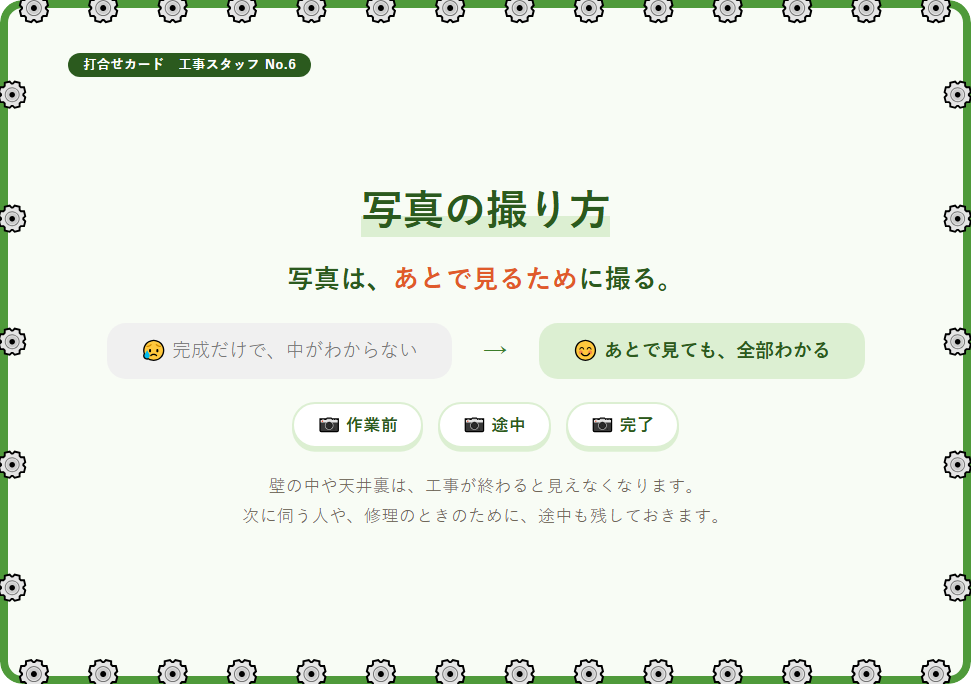
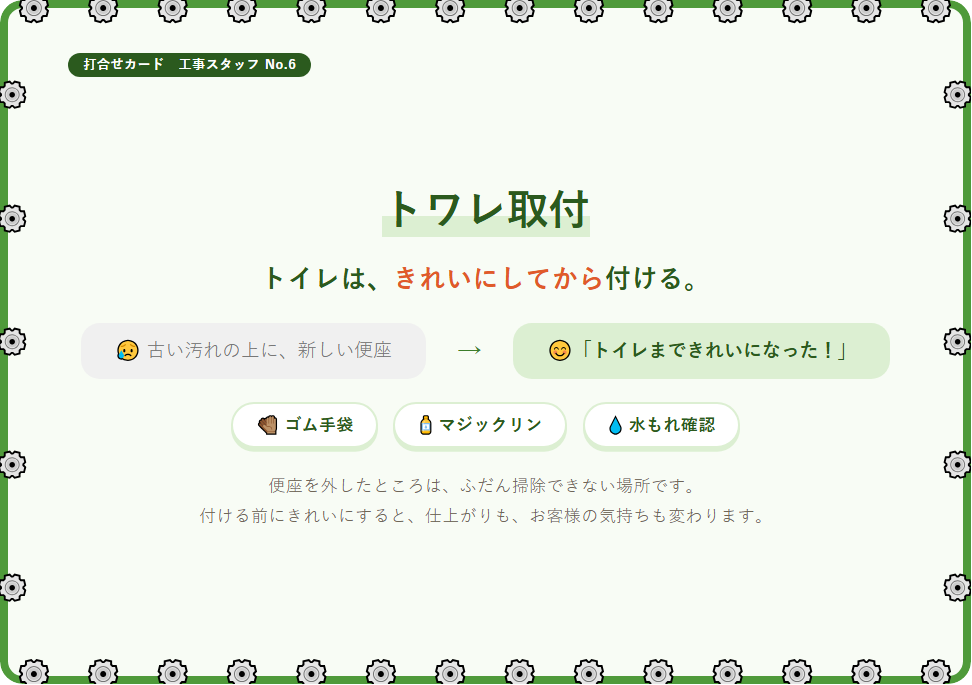
工事カードの番号を入れ替え（No.5 写真の撮り方／No.6 トワレ取付）
Claude-Session: https://claude.ai/code/session_01SZNrdcyrN7aKEt1o21LvYk

diff --git a/card-koji-5.html b/card-koji-5.html
@@ -3,10 +3,10 @@
 <head>
 <meta charset="UTF-8">
 <meta name="viewport" content="width=1010">
-<title>打合せカード5 トワレ取付｜ヤハタ電機商会</title>
+<title>打合せカード5 写真の撮り方｜ヤハタ電機商会</title>
 <meta property="og:type" content="website">
-<meta property="og:title" content="工事スタッフカード　トワレ取付">
-<meta property="og:description" content="トイレは、きれいにしてから付ける。">
+<meta property="og:title" content="工事スタッフカード　写真の撮り方">
+<meta property="og:description" content="写真は、あとで見るために撮る。">
 <meta property="og:image" content="https://yahatadennki.github.io/report/img/card-koji-5.png">
 <meta property="og:url" content="https://yahatadennki.github.io/report/card-koji-5.html">
 <meta name="twitter:card" content="summary_large_image">
@@ -100,11 +100,11 @@
 
   <div class="top"><span class="no">打合せカード　工事スタッフ No.5</span><span></span></div>
   <div class="front">
-    <h1><em>トワレ取付</em></h1>
-    <p class="msg">トイレは、<b>きれいにしてから</b>付ける。</p>
-    <div class="vs"><div class="ng">😥 古い汚れの上に、新しい便座</div><div class="ar">→</div><div class="ok">😊「トイレまできれいになった！」</div></div>
-    <div class="chips"><span>🧤 ゴム手袋</span><span>🧴 マジックリン</span><span>💧 水もれ確認</span></div>
-    <p class="one">便座を外したところは、ふだん掃除できない場所です。<br>付ける前にきれいにすると、仕上がりも、お客様の気持ちも変わります。</p>
+    <h1><em>写真の撮り方</em></h1>
+    <p class="msg">写真は、<b>あとで見るため</b>に撮る。</p>
+    <div class="vs"><div class="ng">😥 完成だけで、中がわからない</div><div class="ar">→</div><div class="ok">😊 あとで見ても、全部わかる</div></div>
+    <div class="chips"><span>📷 作業前</span><span>📷 途中</span><span>📷 完了</span></div>
+    <p class="one">壁の中や天井裏は、工事が終わると見えなくなります。<br>次に伺う人や、修理のときのために、途中も残しておきます。</p>
   </div>
 </div>
 
@@ -115,17 +115,17 @@
   <div class="col-f l"><span>⚙</span><span>⚙</span><span>⚙</span><span>⚙</span><span>⚙</span></div>
   <div class="col-f r"><span>⚙</span><span>⚙</span><span>⚙</span><span>⚙</span><span>⚙</span></div>
 
-  <div class="top"><span class="no">打合せカード　工事スタッフ No.5　トワレ取付</span><span></span></div>
+  <div class="top"><span class="no">打合せカード　工事スタッフ No.5　写真の撮り方</span><span></span></div>
   <div class="back">
     <div class="box">
-      <h2>取付の流れ</h2>
-      <div class="roles sm"><div class="role" style="--rc:#fde2cc;--rk:#7a3a0e"><span class="e">📦</span><div><div class="n">付属品の確認</div><div class="x">箱を開けて、付属品がそろっているか</div></div></div><div class="role" style="--rc:#d9ebfa;--rk:#164a7a"><span class="e">🚰</span><div><div class="n">止水栓を閉める</div><div class="x">電源を抜いて、水を抜く</div></div></div><div class="role" style="--rc:#fff1c2;--rk:#7a4d10"><span class="e">🔧</span><div><div class="n">古い便座を外す</div><div class="x">給水ホースと本体</div></div></div><div class="role" style="--rc:#dcefd2;--rk:#2b5a1e"><span class="e">🧴</span><div><div class="n">掃除</div><div class="x">マジックリン＋トイレットペーパー</div></div></div><div class="role" style="--rc:#e8dcf7;--rk:#4a2a78"><span class="e">🔩</span><div><div class="n">取付</div><div class="x">ベースプレート・本体・給水</div></div></div><div class="role" style="--rc:#d9ebfa;--rk:#164a7a"><span class="e">💧</span><div><div class="n">水もれ確認</div><div class="x">止水栓を開けて、つなぎ目を目と手で</div></div></div><div class="role" style="--rc:#fde2cc;--rk:#7a3a0e"><span class="e">✅</span><div><div class="n">試運転</div><div class="x">おしり・ビデ・便座の温かさ</div></div></div></div>
+      <h2>撮るところ</h2>
+      <div class="roles"><div class="role" style="--rc:#d9ebfa;--rk:#164a7a"><span class="e">🏠</span><div><div class="n">作業前</div><div class="x">設置場所・古い機器・まわりの様子</div></div></div><div class="role" style="--rc:#dcefd2;--rk:#2b5a1e"><span class="e">🔧</span><div><div class="n">途中</div><div class="x">配線・配管・接続部など、終わると見えなくなるところ</div></div></div><div class="role" style="--rc:#fff1c2;--rk:#7a4d10"><span class="e">✅</span><div><div class="n">完了</div><div class="x">仕上がりを、正面と横から</div></div></div><div class="role" style="--rc:#e8dcf7;--rk:#4a2a78"><span class="e">🏷</span><div><div class="n">型番</div><div class="x">新しい機器と、外した機器の銘板</div></div></div></div>
 
     </div>
     <div class="box">
-      <h2>毎回やること</h2>
-      <div class="memo"><b>🧤 ゴム手袋は必ず</b><p>トイレの作業は、手を守ってから。</p></div>
-      <ul class="vals"><li>💧 水もれは、時間をおいてもう一度</li><li>📕 リモコンとノズル掃除を伝える</li><li>🗑 古い便座の引き取りを確かめる</li></ul>
+      <h2>撮るときは</h2>
+      <div class="memo"><b>📱 日報に写真をつけて送る</b><p>タグを合わせておくと、あとで探しやすい。</p></div>
+      <ul class="vals"><li>📐 全体と近く、両方撮る</li><li>💡 暗いところは、ライトで照らす</li><li>🙏 お客様の顔や持ち物は、写さないように</li></ul>
 
     </div>
   </div>

diff --git a/card-koji-6.html b/card-koji-6.html
@@ -3,10 +3,10 @@
 <head>
 <meta charset="UTF-8">
 <meta name="viewport" content="width=1010">
-<title>打合せカード6 写真の撮り方｜ヤハタ電機商会</title>
+<title>打合せカード6 トワレ取付｜ヤハタ電機商会</title>
 <meta property="og:type" content="website">
-<meta property="og:title" content="工事スタッフカード　写真の撮り方">
-<meta property="og:description" content="写真は、あとで見るために撮る。">
+<meta property="og:title" content="工事スタッフカード　トワレ取付">
+<meta property="og:description" content="トイレは、きれいにしてから付ける。">
 <meta property="og:image" content="https://yahatadennki.github.io/report/img/card-koji-6.png">
 <meta property="og:url" content="https://yahatadennki.github.io/report/card-koji-6.html">
 <meta name="twitter:card" content="summary_large_image">
@@ -100,11 +100,11 @@
 
   <div class="top"><span class="no">打合せカード　工事スタッフ No.6</span><span></span></div>
   <div class="front">
-    <h1><em>写真の撮り方</em></h1>
-    <p class="msg">写真は、<b>あとで見るため</b>に撮る。</p>
-    <div class="vs"><div class="ng">😥 完成だけで、中がわからない</div><div class="ar">→</div><div class="ok">😊 あとで見ても、全部わかる</div></div>
-    <div class="chips"><span>📷 作業前</span><span>📷 途中</span><span>📷 完了</span></div>
-    <p class="one">壁の中や天井裏は、工事が終わると見えなくなります。<br>次に伺う人や、修理のときのために、途中も残しておきます。</p>
+    <h1><em>トワレ取付</em></h1>
+    <p class="msg">トイレは、<b>きれいにしてから</b>付ける。</p>
+    <div class="vs"><div class="ng">😥 古い汚れの上に、新しい便座</div><div class="ar">→</div><div class="ok">😊「トイレまできれいになった！」</div></div>
+    <div class="chips"><span>🧤 ゴム手袋</span><span>🧴 マジックリン</span><span>💧 水もれ確認</span></div>
+    <p class="one">便座を外したところは、ふだん掃除できない場所です。<br>付ける前にきれいにすると、仕上がりも、お客様の気持ちも変わります。</p>
   </div>
 </div>
 
@@ -115,17 +115,17 @@
   <div class="col-f l"><span>⚙</span><span>⚙</span><span>⚙</span><span>⚙</span><span>⚙</span></div>
   <div class="col-f r"><span>⚙</span><span>⚙</span><span>⚙</span><span>⚙</span><span>⚙</span></div>
 
-  <div class="top"><span class="no">打合せカード　工事スタッフ No.6　写真の撮り方</span><span></span></div>
+  <div class="top"><span class="no">打合せカード　工事スタッフ No.6　トワレ取付</span><span></span></div>
   <div class="back">
     <div class="box">
-      <h2>撮るところ</h2>
-      <div class="roles"><div class="role" style="--rc:#d9ebfa;--rk:#164a7a"><span class="e">🏠</span><div><div class="n">作業前</div><div class="x">設置場所・古い機器・まわりの様子</div></div></div><div class="role" style="--rc:#dcefd2;--rk:#2b5a1e"><span class="e">🔧</span><div><div class="n">途中</div><div class="x">配線・配管・接続部など、終わると見えなくなるところ</div></div></div><div class="role" style="--rc:#fff1c2;--rk:#7a4d10"><span class="e">✅</span><div><div class="n">完了</div><div class="x">仕上がりを、正面と横から</div></div></div><div class="role" style="--rc:#e8dcf7;--rk:#4a2a78"><span class="e">🏷</span><div><div class="n">型番</div><div class="x">新しい機器と、外した機器の銘板</div></div></div></div>
+      <h2>取付の流れ</h2>
+      <div class="roles sm"><div class="role" style="--rc:#fde2cc;--rk:#7a3a0e"><span class="e">📦</span><div><div class="n">付属品の確認</div><div class="x">箱を開けて、付属品がそろっているか</div></div></div><div class="role" style="--rc:#d9ebfa;--rk:#164a7a"><span class="e">🚰</span><div><div class="n">止水栓を閉める</div><div class="x">電源を抜いて、水を抜く</div></div></div><div class="role" style="--rc:#fff1c2;--rk:#7a4d10"><span class="e">🔧</span><div><div class="n">古い便座を外す</div><div class="x">給水ホースと本体</div></div></div><div class="role" style="--rc:#dcefd2;--rk:#2b5a1e"><span class="e">🧴</span><div><div class="n">掃除</div><div class="x">マジックリン＋トイレットペーパー</div></div></div><div class="role" style="--rc:#e8dcf7;--rk:#4a2a78"><span class="e">🔩</span><div><div class="n">取付</div><div class="x">ベースプレート・本体・給水</div></div></div><div class="role" style="--rc:#d9ebfa;--rk:#164a7a"><span class="e">💧</span><div><div class="n">水もれ確認</div><div class="x">止水栓を開けて、つなぎ目を目と手で</div></div></div><div class="role" style="--rc:#fde2cc;--rk:#7a3a0e"><span class="e">✅</span><div><div class="n">試運転</div><div class="x">おしり・ビデ・便座の温かさ</div></div></div></div>
 
     </div>
     <div class="box">
-      <h2>撮るときは</h2>
-      <div class="memo"><b>📱 日報に写真をつけて送る</b><p>タグを合わせておくと、あとで探しやすい。</p></div>
-      <ul class="vals"><li>📐 全体と近く、両方撮る</li><li>💡 暗いところは、ライトで照らす</li><li>🙏 お客様の顔や持ち物は、写さないように</li></ul>
+      <h2>毎回やること</h2>
+      <div class="memo"><b>🧤 ゴム手袋は必ず</b><p>トイレの作業は、手を守ってから。</p></div>
+      <ul class="vals"><li>💧 水もれは、時間をおいてもう一度</li><li>📕 リモコンとノズル掃除を伝える</li><li>🗑 古い便座の引き取りを確かめる</li></ul>
 
     </div>
   </div>

diff --git a/tools/cards-data.js b/tools/cards-data.js
@@ -774,7 +774,7 @@ module.exports = [
         memo:['📅 約束の日に、約束どおり、きちんと終わらせる','帰ったあとも、安心が残る仕事を。'],
         vals:['🏠 お客様は、私たちを信じて、予定を空けて待っています'] }
 },
-{ no:5, who:'koji', title:'トワレ取付',
+{ no:6, who:'koji', title:'トワレ取付',
   why:{ msg:'トイレは、<b>きれいにしてから</b>付ける。',
         ng:'😥 古い汚れの上に、新しい便座', ok:'😊「トイレまできれいになった！」',
         chips:['🧤 ゴム手袋','🧴 マジックリン','💧 水もれ確認'],
@@ -939,7 +939,7 @@ module.exports = [
                  {t:'✅ その場でできること',c:'leaf',items:['説明書どおりのエラーのリセット','湯切れなら、沸き増しの設定']},
                  {t:'📋 持ち帰ること',c:'#b33',items:['本体の故障 → メーカー修理か買い替えの見積','10年以上なら、買い替えの話も']} ] }
 },
-{ no:6, who:'koji', title:'写真の撮り方',
+{ no:5, who:'koji', title:'写真の撮り方',
   why:{ msg:'写真は、<b>あとで見るため</b>に撮る。',
         ng:'😥 完成だけで、中がわからない', ok:'😊 あとで見ても、全部わかる',
         chips:['📷 作業前','📷 途中','📷 完了'],

diff --git a/staff-koji.html b/staff-koji.html
@@ -62,7 +62,7 @@
   <p class="sec">🧰 毎回の段取り <small>打合せカード</small></p>
   <div class="grid">
       <a class="item card" href="card-koji-3.html"><span class="ic">🎒</span><span><b>作業準備</b><span>打合せカード</span></span></a>
-      <a class="item card" href="card-koji-6.html"><span class="ic">📷</span><span><b>写真の撮り方</b><span>打合せカード</span></span></a>
+      <a class="item card" href="card-koji-5.html"><span class="ic">📷</span><span><b>写真の撮り方</b><span>打合せカード</span></span></a>
       <a class="item card" href="card-koji-4.html"><span class="ic">📦</span><span><b>納品の手順</b><span>打合せカード</span></span></a>
       <a class="item card" href="card-koji-1.html"><span class="ic">🧰</span><span><b>片付け　工具編</b><span>打合せカード</span></span></a>
       <a class="item card" href="card-koji-2.html"><span class="ic">🗑</span><span><b>片付け　材料編</b><span>打合せカード</span></span></a>

diff --git a/cards.html b/cards.html
@@ -58,8 +58,8 @@
       <a class="ci" href="card-koji-2.html"><span class="n">No.2</span><span class="t">片付け　材料編</span></a>
       <a class="ci" href="card-koji-3.html"><span class="n">No.3</span><span class="t">作業準備</span></a>
       <a class="ci" href="card-koji-4.html"><span class="n">No.4</span><span class="t">納品の手順</span></a>
-      <a class="ci" href="card-koji-5.html"><span class="n">No.5</span><span class="t">トワレ取付</span></a>
-      <a class="ci" href="card-koji-6.html"><span class="n">No.6</span><span class="t">写真の撮り方</span></a>
+      <a class="ci" href="card-koji-5.html"><span class="n">No.5</span><span class="t">写真の撮り方</span></a>
+      <a class="ci" href="card-koji-6.html"><span class="n">No.6</span><span class="t">トワレ取付</span></a>
     </div>
   </section>
   <section id="service" style="--f:#3d8fd6;--bg:#d9ebfa">

diff --git a/manual.html b/manual.html
@@ -770,7 +770,7 @@
   <!-- cards:koji -->
   <div class="pchips">
     <p class="pchips__t">🃏 打合せカード</p>
-    <div class="pchips__row"><span class="pchips__h">⚙ 工事</span><a href="card-koji-1.html">片付け　工具編</a><a href="card-koji-2.html">片付け　材料編</a><a href="card-koji-3.html">作業準備</a><a href="card-koji-5.html">トワレ取付</a><a href="card-koji-6.html">写真の撮り方</a></div>
+    <div class="pchips__row"><span class="pchips__h">⚙ 工事</span><a href="card-koji-1.html">片付け　工具編</a><a href="card-koji-2.html">片付け　材料編</a><a href="card-koji-3.html">作業準備</a><a href="card-koji-5.html">写真の撮り方</a><a href="card-koji-6.html">トワレ取付</a></div>
   </div>
   <!-- /cards:koji -->
 
